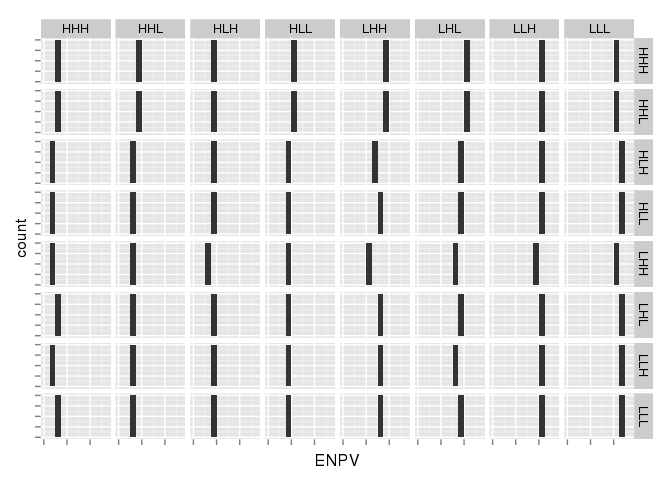
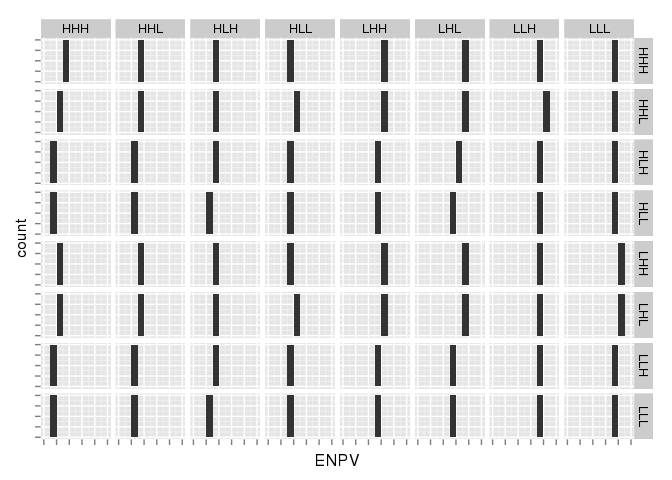
fix the low-noise value to sethi settings

diff --git a/inst/scripts/table_sethi_settings.md b/inst/scripts/table_sethi_settings.md
@@ -44,14 +44,14 @@ mean_value <- function(sigma_g_belief, sigma_m_belief, sigma_i_belief,
     group_by(rep) %>% 
     do(replicates()) %>% 
     ungroup() %>%
-    summarise(ENPV = mean(NPV), sd = sd(NPV))
+    summarise(ENPV = mean(NPV), sd = sd(NPV), min=min(NPV), max=max(NPV))
 
 
   }
 ```
 
 ``` r
-low <- 0.01
+low <- 0.1
 high <- 0.5
 cases <-
   expand.grid(
@@ -76,8 +76,8 @@ We want to collapse the columns that simply list the values of each true/belief 
 ``` r
 rekey <- function(str){
   str %>% 
-  stringr::str_replace_all("0.01", "L") %>%
-  stringr::str_replace_all("0.5", "H") %>%
+  stringr::str_replace_all(as.character(low), "L") %>%
+  stringr::str_replace_all(as.character(high), "H") %>%
   stringr::str_replace_all("_", "")
 }
 
@@ -100,16 +100,16 @@ table %>% filter(belief == true) -> optimal
 optimal %>% knitr::kable("pandoc")
 ```
 
-|   id| belief | true |      ENPV|          sd|
-|----:|:-------|:-----|---------:|-----------:|
-|    1| LLL    | LLL  |  457.4543|   0.5631201|
-|   10| LLH    | LLH  |  438.0797|   4.5596371|
-|   19| LHL    | LHL  |  369.9958|  16.9390710|
-|   28| LHH    | LHH  |  249.6880|  16.8867770|
-|   37| HLL    | HLL  |  184.8037|  29.3914618|
-|   46| HLH    | HLH  |  161.2395|  26.6041530|
-|   55| HHL    | HHL  |  165.5816|  22.0515356|
-|   64| HHH    | HHH  |  147.5293|  26.0192068|
+|   id| belief | true |      ENPV|         sd|
+|----:|:-------|:-----|---------:|----------:|
+|    1| LLL    | LLL  |  396.9258|   6.530375|
+|   10| LLH    | LLH  |  371.1727|   8.265367|
+|   19| LHL    | LHL  |  366.8641|  10.721565|
+|   28| LHH    | LHH  |  327.5487|  14.242372|
+|   37| HLL    | HLL  |  161.0474|  30.687857|
+|   46| HLH    | HLH  |  155.9838|  27.492843|
+|   55| HHL    | HHL  |  164.2114|  28.901709|
+|   64| HHH    | HHH  |  152.0555|  23.081706|
 
 Is it worse to believe noise is present when it is absent (e.g. conservative noise model), or ingore sources of noise when they are present?
 
@@ -124,11 +124,13 @@ tbls <- lapply(optimal$true, function(x){
 tbl <- bind_rows(tbls) %>% arrange(id)
 ```
 
-Now we can normalize:
+Now we can normalize for the final table:
 
 ``` r
 tbl %>% mutate(normalized_value = ENPV / N) -> tbl
 ```
+
+### Summarizing and Analyzing the table
 
 Ignoring uncertaines that are present:
 
@@ -136,11 +138,11 @@ Ignoring uncertaines that are present:
 tbl %>% filter(belief == "HLL", true %in% c("HHL", "HLH", "HHH")) %>% knitr::kable("pandoc")
 ```
 
-|   id| belief | true |      ENPV|        sd|         N|  normalized\_value|
-|----:|:-------|:-----|---------:|---------:|---------:|------------------:|
-|   38| HLL    | HLH  |  164.8689|  26.14336|  161.2395|          1.0225098|
-|   39| HLL    | HHL  |  113.5121|  28.00425|  165.5816|          0.6855355|
-|   40| HLL    | HHH  |   99.1436|  21.16372|  147.5293|          0.6720266|
+|   id| belief | true |       ENPV|        sd|         N|  normalized\_value|
+|----:|:-------|:-----|----------:|---------:|---------:|------------------:|
+|   38| HLL    | HLH  |  145.42216|  27.29802|  155.9838|          0.9322901|
+|   39| HLL    | HHL  |  108.43488|  26.83073|  164.2114|          0.6603372|
+|   40| HLL    | HHH  |   90.63248|  24.87252|  152.0555|          0.5960488|
 
 Conservative: include uncertainty that doesn't exist
 
@@ -150,9 +152,9 @@ tbl %>% filter(true == "HLL", belief %in% c("HHL", "HLH", "HHH")) %>% knitr::kab
 
 |   id| belief | true |      ENPV|        sd|         N|  normalized\_value|
 |----:|:-------|:-----|---------:|---------:|---------:|------------------:|
-|   45| HLH    | HLL  |  179.7346|  22.76720|  184.8037|          0.9725705|
-|   53| HHL    | HLL  |  201.8626|  23.08644|  184.8037|          1.0923080|
-|   61| HHH    | HLL  |  204.1115|  21.84648|  184.8037|          1.1044770|
+|   45| HLH    | HLL  |  166.7742|  24.87790|  161.0474|           1.035560|
+|   53| HHL    | HLL  |  200.1233|  28.39223|  161.0474|           1.242636|
+|   61| HHH    | HLL  |  198.5589|  23.18692|  161.0474|           1.232922|
 
 We can visualize the whole table (rows are the true scenario, columns are believed scenario). First we just plot ENPV, which justifies our normalization routine, since we see the very strong influence of reality regardless what you believe. Note that we supress grid labels as the units are arbitrary and only relative differences are of interest.
 
@@ -170,12 +172,25 @@ After normalizing by the optimum that could be achieved for the given scenario, 
 ggplot(tbl) + geom_histogram(aes(normalized_value), binwidth=.05) + 
   facet_grid(belief ~ true)  + 
   theme(axis.text.y=element_blank()) + 
-  scale_x_continuous(breaks=scales::pretty_breaks(n=3))
+  scale_x_continuous(breaks=scales::pretty_breaks(n=4))
 ```
 
 ![](table_sethi_settings_files/figure-markdown_github/unnamed-chunk-11-1.png)
 
-Note that believing that both measurement and implementation error are low (`LLL` and `HLL`) gives you consistently the worst outcomes unless both sources of noise truely are low.
+Note that some scenarios are doing better than optimal
+
+``` r
+ tbl %>% filter(belief %in% c("HHH", "HHL"), true == "LHH")
+```
+
+    Source: local data frame [2 x 7]
+
+         id belief  true     ENPV       sd        N normalized_value
+      (int)  (chr) (chr)    (dbl)    (dbl)    (dbl)            (dbl)
+    1    52    HHL   LHH 344.5393 14.62523 327.5487         1.051872
+    2    60    HHH   LHH 334.2415 13.41355 327.5487         1.020433
+
+These are all scenarios in which the 'optimal' solution still scores rather poorly (see `ENPV`).
 
 ``` r
 ggplot(tbl) + 
@@ -184,4 +199,4 @@ ggplot(tbl) +
   theme(axis.text=element_blank())
 ```
 
-![](table_sethi_settings_files/figure-markdown_github/unnamed-chunk-12-1.png)
+![](table_sethi_settings_files/figure-markdown_github/unnamed-chunk-13-1.png)
